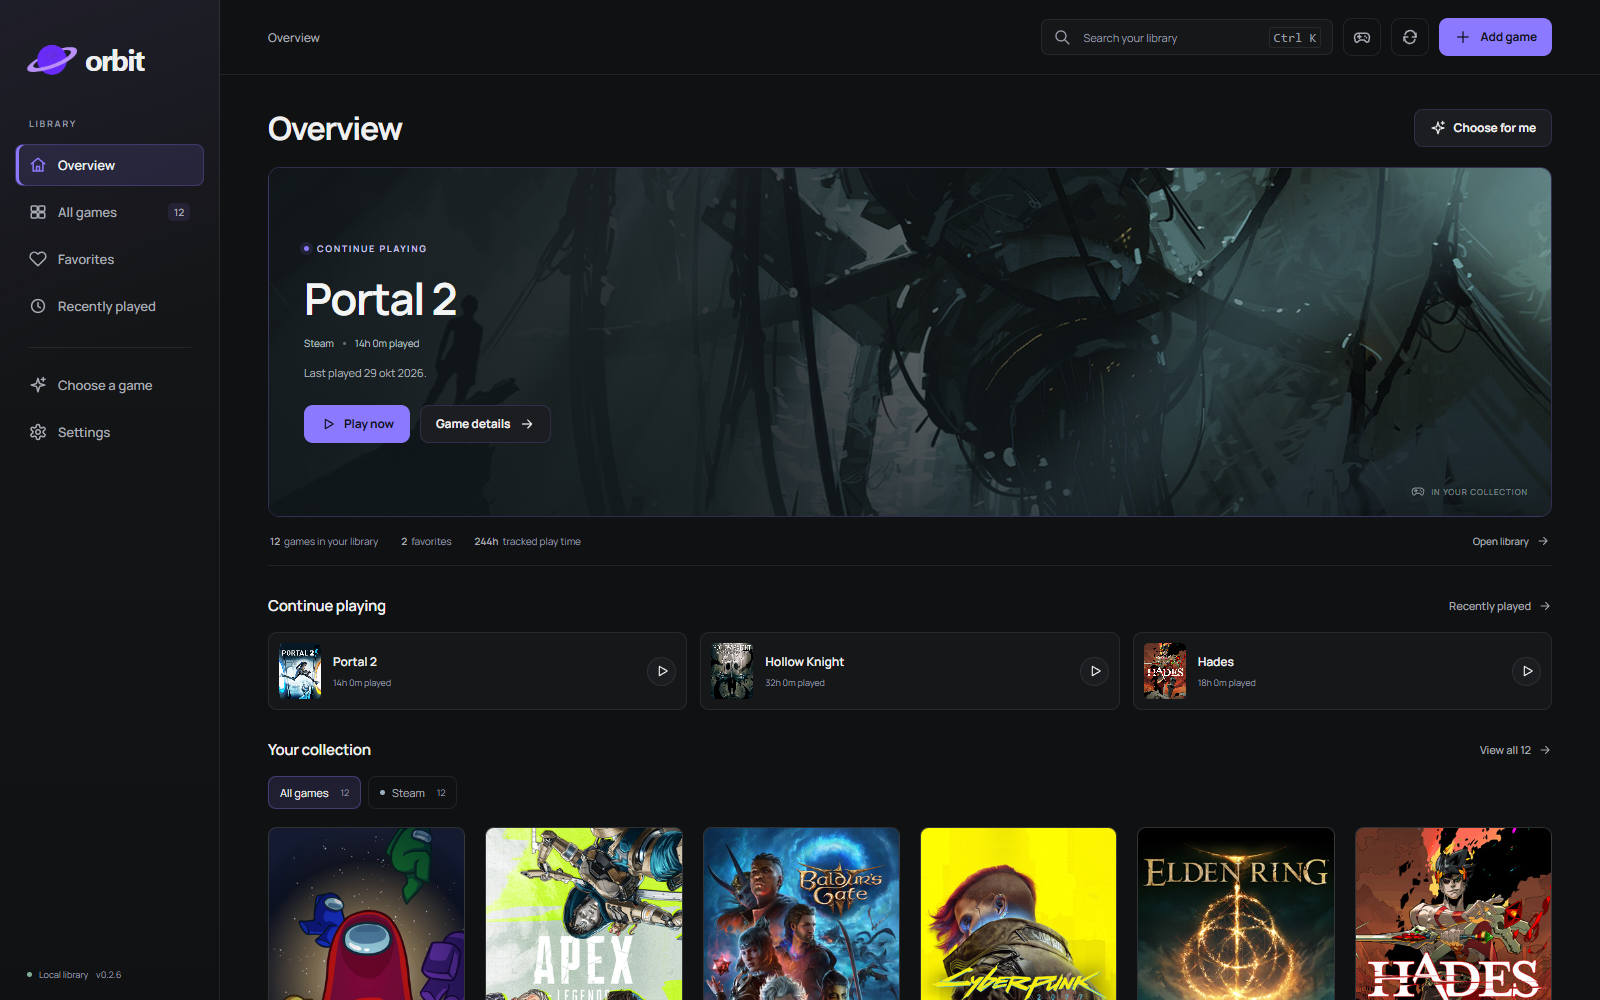
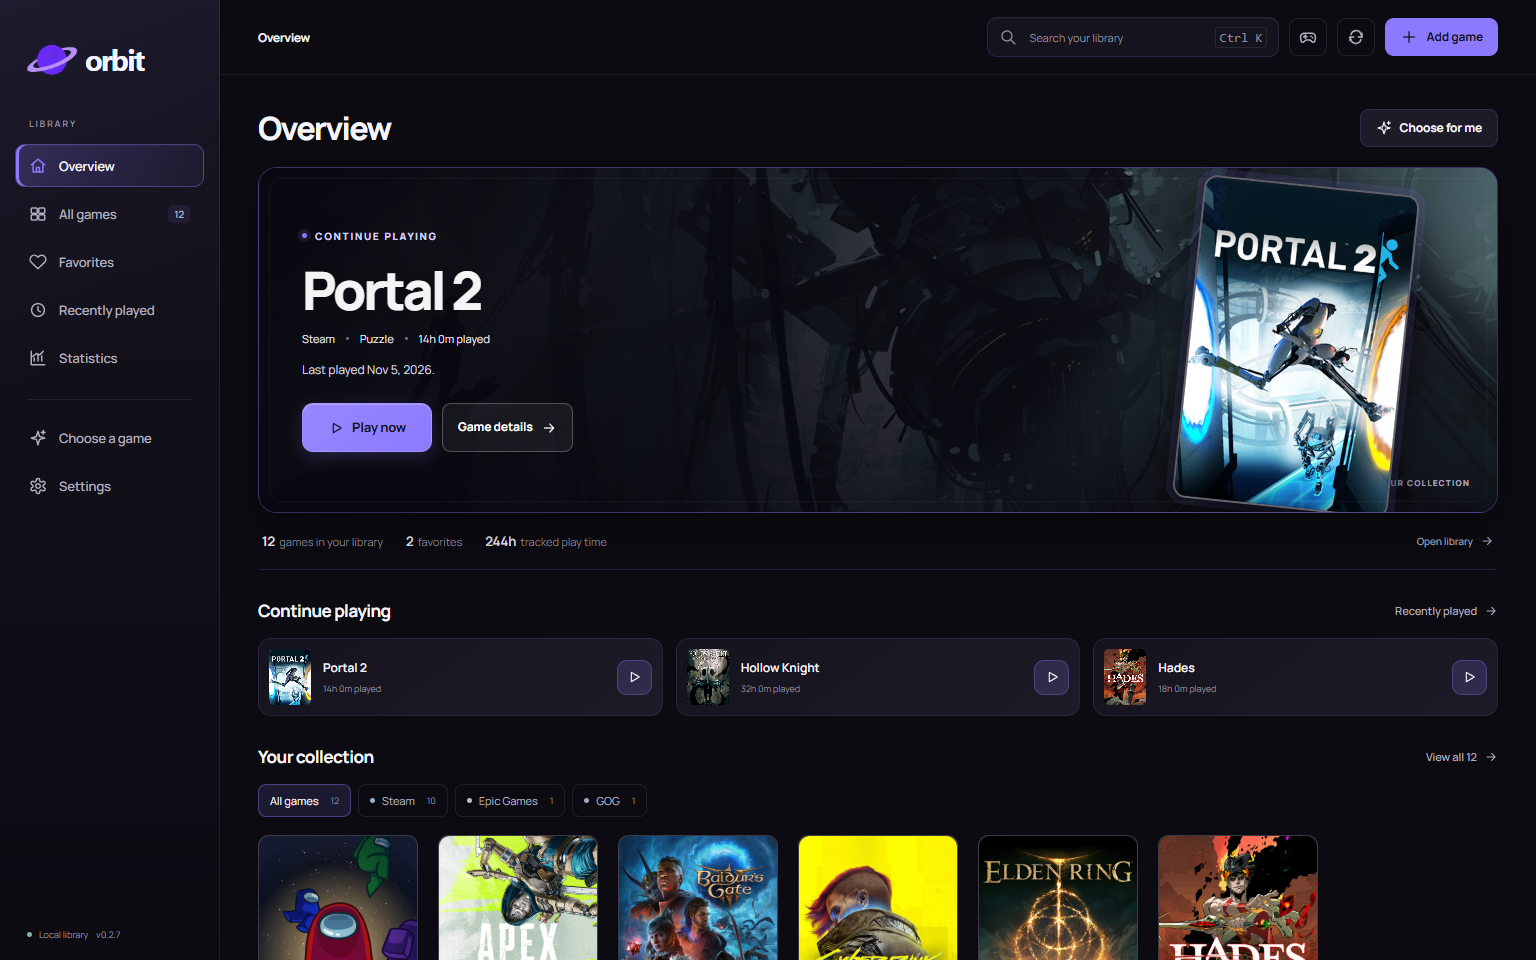
Refresh Orbit 0.2.7 release README and UI screenshots (#43)
Document user-observed 1s cold startup with limitations, current Electron/Rust preview versions and gamepad controls, updated download/signing guidance, and four refreshed 0.2.7 screenshots.

diff --git a/README.md b/README.md
@@ -6,6 +6,8 @@ Orbit is a local-first desktop game launcher for finding, organizing, and playin
 
 The main desktop application uses **Electron**. A separate, **experimental Rust + Tauri 2 preview** is available for Windows. Both use Orbit's familiar interface; the Rust preview is not yet a production replacement.
 
+**[Download the latest Windows release](https://github.com/j5bak928-a11y/orbit-game-launcher/releases/latest)** — the main Electron edition is distributed as an installer and a portable executable. Rust builds, when provided, are distinctly labeled **experimental previews**; they do not replace the Electron edition or share its application data.
+
 ![Orbit library with game covers, filters, and search](docs/images/orbit-library-current.png)
 
 > Screenshots use a sample library, public artwork, and simulated playtime. They are UI previews, not measurements of a real gaming session.
@@ -14,10 +16,11 @@ The main desktop application uses **Electron**. A separate, **experimental Rust 
 
 - **One game library:** discover supported Steam, Epic, GOG, Battle.net, Xbox PC and standalone installations, add executables, and organize entries with favorites, tags, categories, and filters.
 - **Find games quickly:** search with `Ctrl/Cmd + K`, sort the library, and switch between grid and list views.
+- **Ultra fast cold startup: 1s** — observed in a cold-start test performed by the user on their own Windows setup. This is an individual measurement, **not an independently reproduced benchmark or a guaranteed startup time**; results depend on hardware, storage, installed games and the runtime environment.
 - **Launch through the right client:** use a game's storefront URI or a validated executable, without moving or modifying game installations.
 - **Track playtime:** record supported direct-launch sessions and detect certain externally launched games on Windows. Tracking accuracy depends on how a game starts and which processes can be identified.
 - **Show game artwork:** look for validated portrait artwork in bounded neighboring folders, use cached covers and icons offline, optionally look up online artwork, or select your own cover, banner, and icon.
-- **Play with a controller:** use a fullscreen, gamepad-friendly library with keyboard and mouse fallback.
+- **Play with a controller:** navigate the fullscreen library and game details with a standard-mapped Xbox or PlayStation controller, including page triggers, right-stick scrolling, reconnect handling and a Menu / Options entry shortcut; keyboard and mouse remain available.
 - **Choose your language:** use Orbit in English, Nederlands, Deutsch, Français or Español; follow the system language automatically or select one in Settings. Both desktop editions save this preference locally.
 - **Review gaming statistics:** recorded-session totals for recent days and weeks, a daily activity chart, recent games and a period-best day. Overlapping records for a single game are deduplicated in reports without rewriting play history.
 - **Keep your data local:** store games, settings, and play history in SQLite; export and restore library backups.
@@ -31,7 +34,7 @@ The main desktop application uses **Electron**. A separate, **experimental Rust 
 | | Electron desktop | Rust / Tauri preview |
 | --- | --- | --- |
 | Version in this repository | **0.2.7** | **0.2.7** |
-| Status | Main desktop implementation | Rust reliability update under development (not yet published) |
+| Status | Main Windows release edition | Experimental preview; installed native acceptance not complete |
 | UI | Orbit HTML/CSS/JavaScript | The same interface, hosted in WebView2 |
 | Backend | Node.js/Electron, with a native Windows process helper | Rust for library, discovery, tracking, artwork, and backups |
 | Windows packaging | NSIS setup and portable EXE | NSIS setup, MSI, and portable EXE |
@@ -43,7 +46,7 @@ The editions have **different application IDs and data directories**. On first l
 
 **Direction:** make the fast, local-first Rust/Tauri edition the primary Windows launcher, then develop library organization, a console-quality controller experience, and optional offline intelligence. Keep the existing Electron edition as a fallback during the transition; do not throw away users' libraries or playtime history to accelerate a version bump.
 
-These are **planned milestones, not released features or promised dates**. Electron also uses version `0.2.7`; Rust `0.2.7` is the current reliability development milestone, not an automatically published release.
+These are **engineering milestones, not promises of public binary availability or dates**. Electron and Rust currently use version `0.2.7` in source; Rust `0.2.7` remains a preview reliability milestone even if a separately labeled download is provided with an Electron release.
 
 | Planned Rust version | Theme | Deliverable / exit criteria |
 | --- | --- | --- |
@@ -65,6 +68,8 @@ These are **planned milestones, not released features or promised dates**. Elect
 
 ### Memory usage (maintainer observations)
 
+**Cold startup:** **Ultra fast cold startup: 1s** is the user's measurement on one Windows configuration. We have not independently repeated it with packaged builds or established a multi-run p50/p95; it should not be read as a universal launch-time guarantee or as a comparative benchmark against other launchers. Startup here means starting Orbit with its UI, not loading a game.
+
 | Edition / state | Reported RAM |
 | --- | ---: |
 | Earlier Electron edition, with its UI open | **~300 MB** |
@@ -84,7 +89,7 @@ This is a **comparison framework, not a claim that Orbit outperforms another lau
 | Launcher | Main UI technology / scope | Controlled idle RAM | Controlled idle CPU |
 | --- | --- | --- | --- |
 | **Orbit Electron 0.2.7** | Electron; unified local library and tracking | Not measured in common test | Not measured |
-| **Orbit Rust Preview 0.2.6** | Tauri 2, Rust, WebView2; native tracking | Not measured in common test | Not measured |
+| **Orbit Rust Preview 0.2.7 (source)** | Tauri 2, Rust, WebView2; native tracking; experimental | Not measured in common test | Not measured |
 | [Steam](https://store.steampowered.com/about/) | Full storefront and social client with `steamwebhelper` processes | Not measured | Not measured |
 | [Epic Games Launcher](https://store.epicgames.com/download) | Storefront, social features and library | Not measured | Not measured |
 | [Playnite](https://github.com/JosefNemec/Playnite) | .NET / WPF; unified desktop library and controller mode | Not measured | Not measured |
@@ -219,7 +224,7 @@ Renderer and experience tests use Playwright and an installed Chromium-compatibl
 
 Package the Electron edition on the matching operating system with `npm run dist:win`, `npm run dist:mac`, or `npm run dist:linux`. On Windows, packaged Electron builds also need the native process-inventory helper; GitHub's [Windows build workflow](https://github.com/j5bak928-a11y/orbit-game-launcher/actions/workflows/windows-build.yml) compiles it automatically. Review builds do **not** publish a release; publishing requires the explicit manual workflow option.
 
-Windows installers are currently unsigned. Automatic update installation is disabled until trusted signing and update verification are ready. Do not treat a successful CI build as proof of real-world storefront, tracking, or controller compatibility.
+Windows installers are currently unsigned and may trigger Windows SmartScreen warnings. Automatic update installation is disabled until trusted signing and update verification are ready. Published binaries should be checked against the accompanying SHA-256 manifest. Do not treat a successful CI build as proof of real-world storefront, tracking, or controller compatibility.
 
 For detailed validation and limits, see [controller-mode verification](docs/VERIFICATION-controller-mode.md), [Tauri migration](docs/TAURI-MIGRATION.md), and [Windows tray lifecycle tests](docs/VERIFICATION-TAURI-TRAY-WEBVIEW.md).
 
